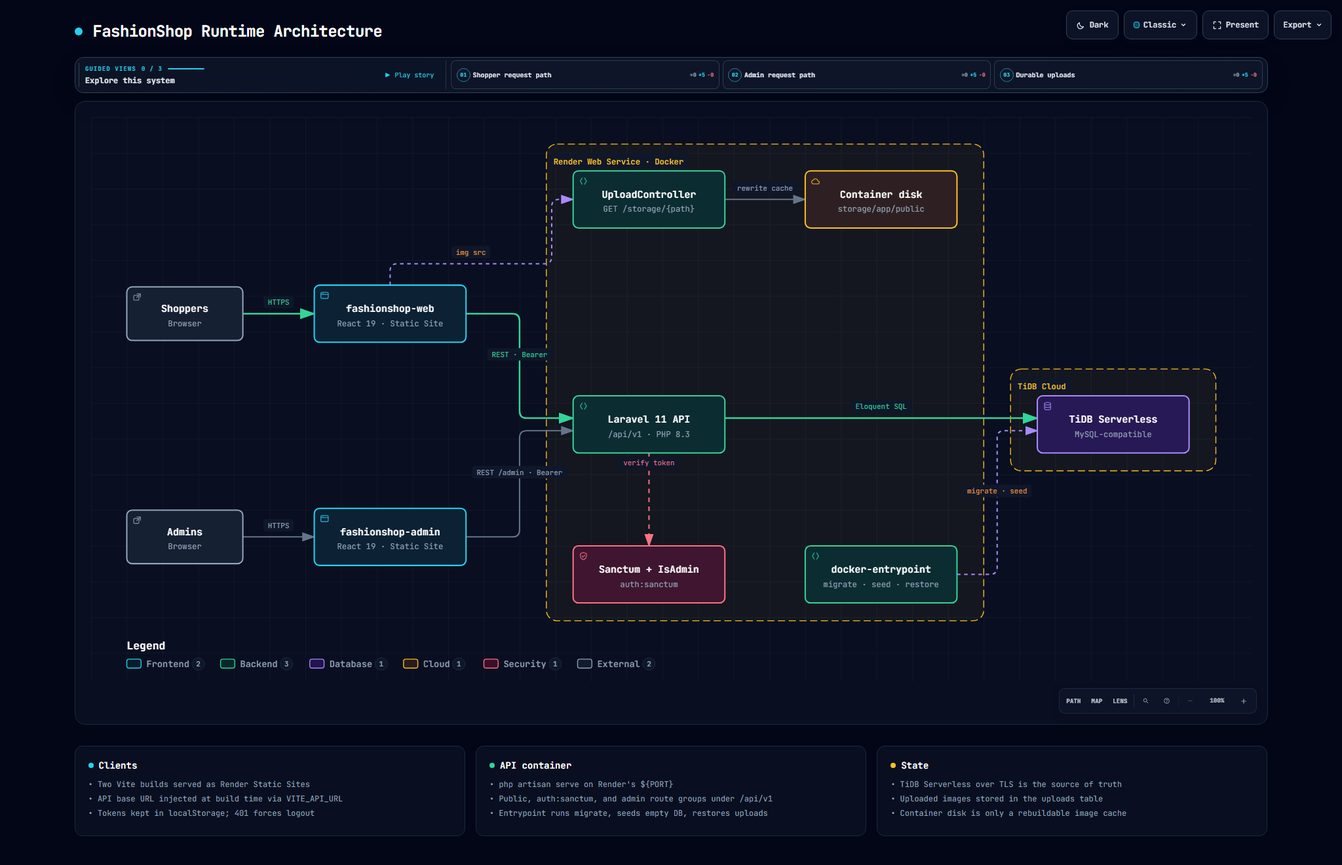
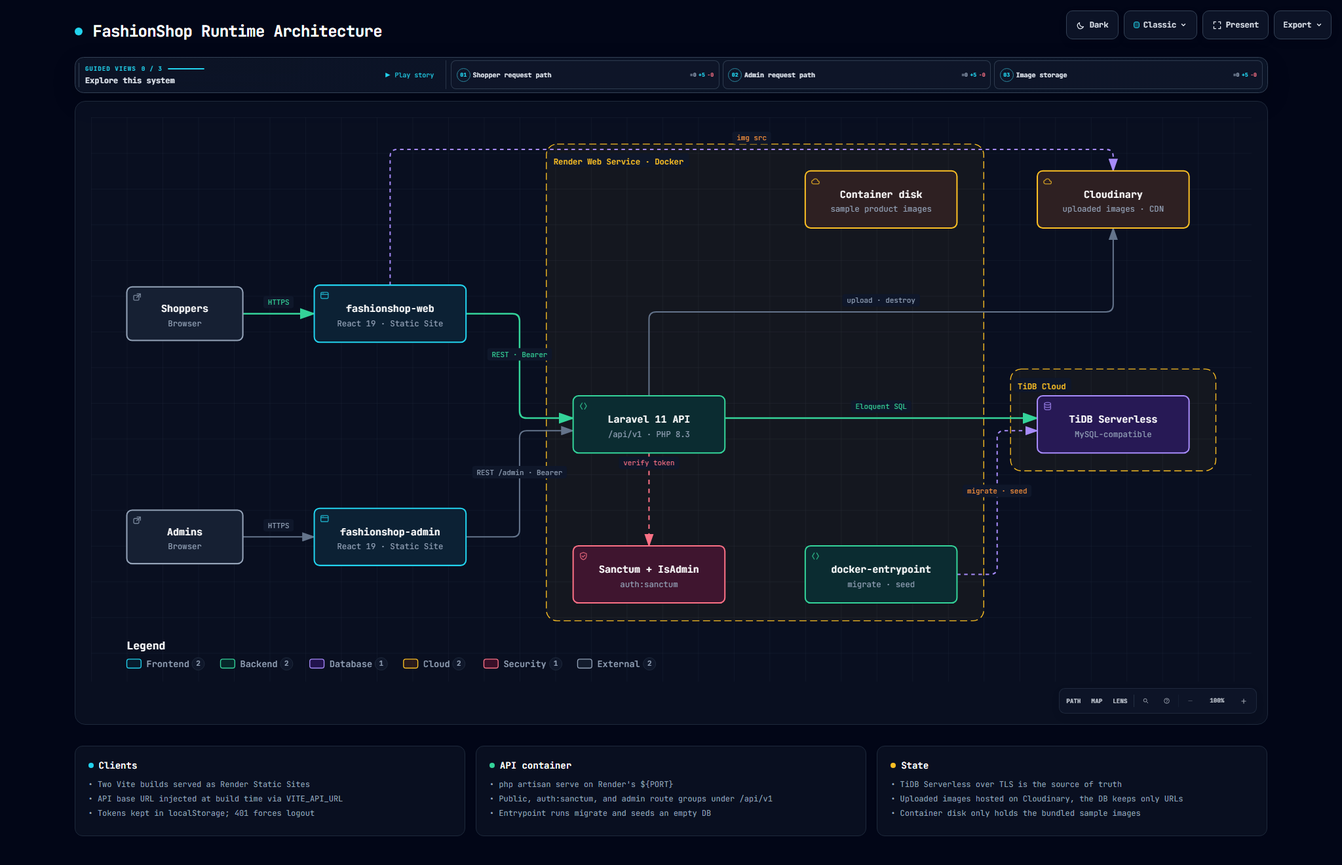
Redraw the architecture diagram with Cloudinary holding the images

diff --git a/docs/architecture/runtime-architecture.html b/docs/architecture/runtime-architecture.html
@@ -5085,7 +5085,7 @@ OTHER DEALINGS IN THE FONT SOFTWARE.
       </div>
     </div>
 
-    <script id="archify-guided-views-data" type="application/json">[{"id":"shopping-path","label":"Shopper request path","focus":["shopper","web","api","auth","db"],"note":"A storefront call carries the user Bearer token to /api/v1 and lands in TiDB."},{"id":"admin-path","label":"Admin request path","focus":["operator","admin","api","auth","db"],"note":"Admin calls hit /api/v1/admin, guarded by auth:sanctum plus the IsAdmin middleware."},{"id":"uploads","label":"Durable uploads","focus":["web","uploads","disk","db","boot"],"note":"Images live in the uploads table; disk is a cache rebuilt at boot or on first view."}]</script>
+    <script id="archify-guided-views-data" type="application/json">[{"id":"shopping-path","label":"Shopper request path","focus":["shopper","web","api","auth","db"],"note":"A storefront call carries the user Bearer token to /api/v1 and lands in TiDB."},{"id":"admin-path","label":"Admin request path","focus":["operator","admin","api","auth","db"],"note":"Admin calls hit /api/v1/admin, guarded by auth:sanctum plus the IsAdmin middleware."},{"id":"images","label":"Image storage","focus":["web","admin","api","cdn","disk"],"note":"Admin uploads go to Cloudinary and the database keeps only their URLs; sample images ship inside the container image."}]</script>
 
     <script id="archify-i18n-data" type="application/json">{"locale":"en","messages":{"viewer.kind.frontend":"Frontend","viewer.kind.backend":"Backend","viewer.kind.database":"Database","viewer.kind.cloud":"Cloud","viewer.kind.security":"Security","viewer.kind.messagebus":"Message bus","viewer.kind.external":"External","viewer.kind.neutral":"Neutral","viewer.kind.node":"Node","viewer.kind.start":"Start","viewer.kind.active":"Active","viewer.kind.waiting":"Waiting","viewer.kind.decision":"Decision","viewer.kind.success":"Success","viewer.kind.failure":"Failure","viewer.toolbar.actions":"Diagram actions","viewer.theme.toggle.title":"Toggle theme (T)","viewer.theme.toggle":"Toggle color theme","viewer.theme.dark":"Dark","viewer.theme.light":"Light","viewer.preset.choose.title":"Choose visual style (S cycles)","viewer.preset.choose":"Choose visual style","viewer.preset.style":"Style","viewer.preset.menu":"Visual style","viewer.preset.identity":"Visual identity","viewer.preset.cycles":"S cycles","viewer.preset.classic":"Classic","viewer.preset.classic.short":"Classic","viewer.preset.classic.hint":"Stable technical default","viewer.preset.flow":"Signal Flow","viewer.preset.flow.short":"Flow","viewer.preset.flow.hint":"Motion-forward presentation","viewer.preset.blueprint":"Blueprint","viewer.preset.blueprint.hint":"Engineering review","viewer.preset.editorial":"Editorial","viewer.preset.editorial.hint":"Publication and launch notes","viewer.preset.badge.signalFlow":"SIGNAL FLOW","viewer.preset.badge.blueprint":"BLUEPRINT / REV 01","viewer.preset.badge.editorial":"EDITORIAL / FIELD NOTE","viewer.preset.badge.editorialPlate":"ARCHIFY / PLATE 04","viewer.preset.current":"Visual style: {style}. Choose visual style","viewer.motion.live":"Live","viewer.motion.still":"Still","viewer.motion.pause":"Pause motion","viewer.motion.resume":"Resume motion","viewer.motion.reduced":"Motion paused by reduced-motion preference","viewer.motion.hidden":"Motion paused while this page is hidden","viewer.motion.yielding":"Pause motion; currently yielding to {owner}","viewer.motion.yielding.title":"Live preview enabled · yielding to {owner}","viewer.owner.story":"the guided story","viewer.owner.chapter":"the active chapter","viewer.owner.chapterPreview":"the chapter delta preview","viewer.owner.handoff":"the chapter handoff","viewer.owner.route":"Route Probe","viewer.owner.lens":"Semantic Lens","viewer.owner.relationship":"Relationship Preview","viewer.owner.intent":"Intent Trace","viewer.owner.focus":"semantic focus","viewer.owner.legend":"legend preview","viewer.owner.reader":"reader interaction","viewer.present.enter":"Enter presentation stage","viewer.present.enter.title":"Presentation stage (F)","viewer.present.exit":"Exit presentation stage","viewer.present.exit.title":"Exit presentation stage (F or Escape)","viewer.present.present":"Present","viewer.present.exit.label":"Exit","viewer.export.button":"Export","viewer.export.button.title":"Export diagram (E)","viewer.export.diagram":"Export diagram","viewer.export.menu":"Export","viewer.export.subtitle":"Portable, clean outputs","viewer.export.share":"Share","viewer.export.shareCard":"Share Card","viewer.export.routeShareCard":"Route Share Card","viewer.export.reachShareCard":"Reach Share Card","viewer.export.copyShareCard":"Copy Share Card","viewer.export.copyDiagram":"Copy diagram","viewer.export.clipboardPng":"PNG to clipboard","viewer.export.raster":"Raster images","viewer.export.image":"Image","viewer.export.lossless":"Lossless image","viewer.export.compact":"Compact image","viewer.export.modern":"Modern image","viewer.export.vectorMotion":"Vector and motion","viewer.export.vectorMotion.heading":"Vector \u0026 motion","viewer.export.editable":"Editable vector","viewer.export.motion6s":"6s motion","viewer.export.unsupported":"Not supported by this browser","viewer.export.clipboardUnsupported":"Clipboard image write not supported by this browser","viewer.export.clipboardUnsupported.period":"Clipboard image write not supported by this browser.","viewer.export.clipboardUnsupported.short":"Clipboard image write not supported in this browser.","viewer.export.motionUnavailable":"Motion capture unavailable in this browser","viewer.export.webmUnavailable":"WebM unavailable in this browser","viewer.export.failed":"Export failed: {message}","viewer.export.unknownVariant":"Unknown Share Card variant: {variant}","viewer.export.routeRequired":"Trace a route before exporting a Route Share Card","viewer.export.reachRequired":"Trace authored reach before exporting a Reach Share Card","viewer.export.unknown":"unknown","viewer.export.routeFailed":"Route Share Card export failed: {message}","viewer.export.reachFailed":"Reach Share Card export failed: {message}","viewer.export.copyFailed":"Copy failed: {message}","viewer.export.copiedPng":"Copied PNG to clipboard","viewer.export.copiedShare":"Copied Share Card","viewer.export.downloadedShare":"Downloaded Share Card","viewer.export.downloadedRoute":"Downloaded Route Share Card","viewer.export.downloadedReach":"Downloaded Reach Share Card","viewer.export.downloadedWebm":"Downloaded WebM","viewer.export.recording":"Recording 6 seconds of motion…","viewer.export.card.routeSummary.one":"Route: {source} → {target} · {count} directed hop","viewer.export.card.routeSummary.other":"Route: {source} → {target} · {count} directed hops","viewer.export.card.reachSummary":"Authored {direction} from {origin} · {nodes} · {links} · max {hops}","viewer.export.card.node.one":"{count} node","viewer.export.card.node.other":"{count} nodes","viewer.export.card.link.one":"{count} link","viewer.export.card.link.other":"{count} links","viewer.export.card.hop.one":"{count} hop","viewer.export.card.hop.other":"{count} hops","viewer.export.card.routeBadge":"ARCHIFY · ROUTE · {hops}","viewer.export.card.reachBadge":"ARCHIFY · {direction} REACH","viewer.export.card.defaultBadge":"ARCHIFY · {preset} · {theme}","viewer.export.direction.upstream":"Upstream","viewer.export.direction.downstream":"Downstream","viewer.export.error.canvasUnavailable":"Canvas unavailable for {label}","viewer.export.error.contextUnavailable":"2D canvas context unavailable for {label}","viewer.export.error.toBlobUnavailable":"canvas.toBlob unavailable for {label}","viewer.export.error.toBlobNull":"canvas.toBlob returned no data for {label}","viewer.export.error.variantsCombined":"Share Card variants cannot be combined","viewer.export.error.viewerState":"Share Card export could not remove temporary viewer state","viewer.export.error.routeState":"Route Card export could not preserve the resolved route safely","viewer.export.error.reachState":"Reach Card export could not preserve authored reach safely","viewer.export.error.webmRequirements":"WebM motion export requires a trace animation and browser MediaRecorder support","viewer.export.error.mediaRecorder":"MediaRecorder failed","viewer.export.error.emptyWebm":"MediaRecorder produced an empty WebM","viewer.export.error.webmBackground":"SVG background could not be loaded for WebM export","viewer.guided.region":"Guided diagram views","viewer.guided.previous":"Previous guided view","viewer.guided.previous.title":"Previous guided view ([)","viewer.guided.next":"Next guided view","viewer.guided.next.title":"Next guided view (])","viewer.guided.views":"Guided views","viewer.guided.explore":"Explore this system","viewer.guided.intro":"Step through curated paths without changing the source diagram.","viewer.guided.trail":"Story trail","viewer.guided.beat":"Beat","viewer.guided.nextBeat":"Next","viewer.guided.play":"Play guided story","viewer.guided.play.title":"Play guided story (P)","viewer.guided.pause":"Pause guided story","viewer.guided.pause.title":"Pause guided story (P)","viewer.guided.replay":"Replay guided story","viewer.guided.replay.title":"Replay guided story (P)","viewer.guided.playStory":"Play story","viewer.guided.pauseStory":"Pause","viewer.guided.replayStory":"Replay story","viewer.guided.motionUnavailable":"Story playback unavailable while motion is Still","viewer.guided.enableMotion":"Switch motion to Live to play the guided story","viewer.guided.selectBeatLink":"Select a Story Beat to copy its exact link","viewer.guided.copyMoment":"Copy moment","viewer.guided.momentCopied":"Moment link copied","viewer.guided.momentCopyFailed":"Could not copy story moment link","viewer.guided.copied":"Copied","viewer.guided.copyFailed":"Copy failed","viewer.guided.showAll":"Show all","viewer.guided.showAll.aria":"Show entire diagram","viewer.guided.chapters":"Story chapters","viewer.guided.storyTrail":"Story trail for {label}: {count} beats","viewer.guided.chapter.open":"Open chapter {index} of {total}: {label}, {count} stops","viewer.guided.chapter.current":"Current chapter {index} of {total}: {label}, {count} stops","viewer.guided.chapter.selectedNodes":"{count} selected nodes","viewer.guided.chapter.stops":"{count} stops","viewer.guided.chapter.stop.one":"{count} stop","viewer.guided.chapter.stop.other":"{count} stops","viewer.guided.chapter.current.title":"{label} — current chapter, {count} stops","viewer.guided.chapter.delta.expanded":"{stay} stay, {enter} enter, {leave} leave","viewer.guided.chapter.delta.aria":"Open chapter {index} of {total}: {label}. Chapter focus delta: {delta}","viewer.guided.chapter.delta.title":"{label} — {delta} chapter focus","viewer.guided.handoff":"{from} → {to} · via {label}","viewer.guided.share.chapter":"Chapter {index} / {total}","viewer.guided.share.initial":"Chapter 01 / 01","viewer.guided.share.default":"Guided chapter","viewer.guided.state.ready":"Ready","viewer.guided.state.playing":"Playing","viewer.guided.state.settled":"Settled","viewer.guided.state.paused":"Paused","viewer.guided.state.pinned":"Pinned","viewer.guided.state.still":"Still","viewer.guided.share.step":"Step {index} / {total} · {label}","viewer.guided.share.staticMoment":"{step} · Static moment","viewer.guided.share.complete":"{count} steps complete · {note}","viewer.guided.share.settled":"Path settled for reading.","viewer.guided.share.staticPath":"{count} steps · Static path","viewer.guided.share.ready":"{count} steps · Ready","viewer.guided.share.aria":"{state} chapter {index} of {total}: {label}. {beat}. {route}","viewer.guided.beat.start":"Beat {index} / {total} · {label} · starting point","viewer.guided.beat.forward":"Beat {index} / {total} · {from} → {to}","viewer.guided.beat.reverse":"Beat {index} / {total} · {from} → {to} · reverse authored link","viewer.guided.beat.multiple":"Beat {index} / {total} · {from} ⇄ {to} · {count} authored links","viewer.guided.beat.group":"Beat {index} / {total} · {from} · {to} · grouped · no direct link","viewer.guided.beat.aria.prefix":"Story beat {index} of {total}: {label}. ","viewer.guided.beat.aria.start":"Starting point.","viewer.guided.beat.aria.forward":"From {from} through one authored forward relationship.","viewer.guided.beat.aria.reverse":"From {from}; the authored relationship points from {to} to {from}.","viewer.guided.beat.aria.multiple":"From {from} through {count} authored relationships; shown without arbitrary motion.","viewer.guided.beat.aria.group":"Grouped from {from} with no direct authored relationship.","viewer.guided.caption.start":"Starting point","viewer.guided.caption.grouped":"Grouped transition · no direct authored link","viewer.guided.caption.more":" +{count} more","viewer.guided.caption.reverse":"Reverse authored relationship","viewer.guided.caption.relationships":"{count} authored relationships","viewer.guided.caption.relationship":"Authored relationship","viewer.guided.caption.direction":"authored direction: {from} → {to}","viewer.guided.caption.starting":"Authored starting point","viewer.guided.beatLink":"Copy link to current story moment: Beat {index} of {total}: {label}","viewer.guided.noStory":"This diagram has no authored guided story.","viewer.guide.eyebrow":"Diagram guide","viewer.guide.close":"Close diagram guide","viewer.guide.inspecting":"Inspecting compiled semantics","viewer.guide.actions":"Diagram exploration actions","viewer.guide.find":"Find any node","viewer.guide.find.hint":"Search labels, responsibilities, kinds, and stable IDs.","viewer.guide.route":"Trace a route","viewer.guide.route.aria":"Trace a directed route","viewer.guide.route.hint":"Ask how two semantic nodes connect in authored direction.","viewer.guide.map":"See the whole system","viewer.guide.map.hint":"Open Semantic Radar with a live viewport and stable nodes.","viewer.guide.lens":"Compare semantic kinds","viewer.guide.lens.hint":"Count roles, reveal their traffic, and compare direct authored links.","viewer.guide.story":"Play the guided story","viewer.guide.story.hint":"Walk the authored chapters and real relationships.","viewer.guide.present":"Enter Presentation Stage","viewer.guide.present.hint":"Give the live diagram the viewport without changing export.","viewer.guide.shortcuts":"Additional keyboard shortcuts","viewer.guide.shortcut.export":"Export","viewer.guide.shortcut.theme":"Theme","viewer.guide.shortcut.style":"Style","viewer.guide.shortcut.reset":"Reset","viewer.guide.shortcut.zoomIn":"Zoom in","viewer.guide.shortcut.zoomOut":"Zoom out","viewer.guide.shortcut.close":"Close","viewer.guide.facts":"{nodes} · {relationships} · {views}","viewer.guide.fact.node.one":"{count} semantic node","viewer.guide.fact.node.other":"{count} semantic nodes","viewer.guide.fact.relationship.one":"{count} relationship","viewer.guide.fact.relationship.other":"{count} relationships","viewer.guide.fact.view.one":"{count} guided view","viewer.guide.fact.view.other":"{count} guided views","viewer.guide.story.available.one":"Walk {count} authored chapter and its real relationships.","viewer.guide.story.available.other":"Walk {count} authored chapters and their real relationships.","viewer.guide.story.unavailable":"No authored guided story in this diagram.","viewer.guide.open":"Open diagram guide","viewer.guide.noStory":"This diagram has no authored guided story.","viewer.finder.title":"Find a node","viewer.finder.close":"Close node finder","viewer.finder.placeholder":"Search labels or IDs","viewer.finder.search":"Search diagram nodes","viewer.finder.results":"Diagram nodes","viewer.finder.empty":"No matching nodes","viewer.finder.result.focus":"Focus {label}","viewer.finder.result.routeStart":"Choose {label} as route start","viewer.finder.result.routeTarget":"Choose {label} as route destination, {links}","viewer.finder.status.empty":"No matching nodes","viewer.finder.status.count.one":"{count} matching node","viewer.finder.status.count.other":"{count} matching nodes","viewer.finder.noun.nodes":"nodes","viewer.finder.link.one":"{count} link","viewer.finder.link.other":"{count} links","viewer.finder.result.focus.one":"Focus {label}, {count} related connection","viewer.finder.result.focus.other":"Focus {label}, {count} related connections","viewer.finder.status.filtered":"{visible} of {available} {noun}","viewer.finder.status.all":"{available} {noun}","viewer.passport.eyebrow":"Semantic passport","viewer.passport.metadata":"Node metadata","viewer.passport.evidence":"Verified source evidence","viewer.passport.verified":"Verified source","viewer.passport.verificationScope":"Verified against local Git at the pinned revision. Remote access has not been checked.","viewer.passport.reach":"Authored reach","viewer.passport.reach.trace":"Trace authored reachability","viewer.passport.upstream":"Upstream","viewer.passport.downstream":"Downstream","viewer.passport.upstream.trace":"Trace upstream authored reachability","viewer.passport.downstream.trace":"Trace downstream authored reachability","viewer.passport.close":"Close semantic passport","viewer.passport.copy":"Copy link","viewer.passport.copy.focus":"Copy link to focused node","viewer.passport.relations":"Relations","viewer.passport.relations.show":"Show connected relationships","viewer.passport.relations.hide":"Hide connected relationships","viewer.passport.relations.list":"Connected relationships","viewer.passport.copyRelation":"Copy relation","viewer.passport.copyNode":"Copy node","viewer.passport.copyPinned":"Copy link to pinned relationship","viewer.passport.copySource":"Copy link to source node","viewer.passport.copy.focused.success":"Focused node link copied","viewer.passport.copy.pinned.success":"Pinned relationship link copied","viewer.passport.copy.focused.failed":"Could not copy focused node link","viewer.passport.copy.pinned.failed":"Could not copy pinned relationship link","viewer.passport.relationship.none":"No connected relationships","viewer.passport.relationship.count.one":"{count} relation","viewer.passport.relationship.count.other":"{count} relations","viewer.passport.relationship.show.one":"Show {count} connected relationship","viewer.passport.relationship.show.other":"Show {count} connected relationships","viewer.passport.relationship.summary":"{out} outgoing · {in} incoming{loops}","viewer.passport.relationship.loops":" · {count} loop","viewer.passport.relationship.explorer":"Direct relationship explorer","viewer.passport.relationship.help":"Use arrow keys to explore relationships. Press Enter or Space to pin details; Escape clears.","viewer.passport.relationship.loopsBack":"loops back","viewer.passport.relationship.connectsTo":"connects to","viewer.passport.relationship.connectsFrom":"connects from","viewer.passport.relationship.pinned":"Pinned relationship · {from} → {to} · {label}","viewer.passport.relationship.inspect":"Inspect relationship {index} of {total}: {from} to {to}, {label}. Press Enter for details.","viewer.passport.relationship.group.out":"Outgoing","viewer.passport.relationship.group.in":"Incoming","viewer.passport.relationship.group.loop":"Self loops","viewer.passport.relationship.row":"{group}: {relationship}, {neighbor}","viewer.passport.relationship.direction.out":"OUT →","viewer.passport.relationship.direction.in":"← IN","viewer.passport.relationship.direction.loop":"LOOP","viewer.passport.sourceCount.one":"{count} verified source reference","viewer.passport.sourceCount.other":"{count} verified source references","viewer.passport.sourceMarker":"SRC","viewer.passport.beacon.one":"{count} verified source; focus this node to inspect","viewer.passport.beacon.other":"{count} verified sources; focus this node to inspect","viewer.passport.repository.open":"Open verified repository revision {revision}","viewer.passport.source.open":"Open verified source {path} at revision {revision}","viewer.passport.source.openLink":"Open ↗","viewer.passport.reach.upstream.one":"Trace {count} upstream authored node","viewer.passport.reach.upstream.other":"Trace {count} upstream authored nodes","viewer.passport.reach.downstream.one":"Trace {count} downstream authored node","viewer.passport.reach.downstream.other":"Trace {count} downstream authored nodes","viewer.passport.reach.noUpstream":"No upstream authored nodes","viewer.passport.reach.noDownstream":"No downstream authored nodes","viewer.passport.reach.status":"{direction} · {nodes} nodes · {links} links · max {hops} hops","viewer.route.eyebrow":"Route probe","viewer.route.start":"Choose a start node","viewer.route.start.find":"Find start","viewer.route.start.find.aria":"Find a route start","viewer.route.copy":"Copy link","viewer.route.copy.aria":"Copy link to traced route","viewer.route.clear":"Clear","viewer.route.clear.aria":"Clear route probe","viewer.route.traced":"Traced route","viewer.route.pickTwo":"Pick two semantic nodes on the diagram","viewer.route.pickOne":"Pick a semantic node on the diagram","viewer.route.controls":"Route journey controls","viewer.route.previous":"Previous route position","viewer.route.play":"Play route journey","viewer.route.pause":"Pause route journey","viewer.route.replay":"Replay route journey","viewer.route.next":"Next route position","viewer.route.journey":"Journey","viewer.route.pause.label":"Pause","viewer.route.replay.label":"Replay","viewer.route.overview":"Overview","viewer.route.overview.aria":"Show complete route overview","viewer.route.instructions":"Choose the source, then the destination. Direction matters.","viewer.route.destination":"Choose a destination from {label}","viewer.route.destination.find":"Find target","viewer.route.destination.find.aria":"Find a reachable route destination","viewer.route.differentDestination":"Choose a different destination","viewer.route.distinct":"A route needs two distinct semantic nodes.","viewer.route.unreachable":"No directed route to {label}","viewer.route.unreachable.detail":"{target} is not reachable from {source}. Pick a highlighted destination.","viewer.route.start.instructions":"Select the source. The next step will reveal only directed destinations.","viewer.route.copy.success":"Traced route link copied","viewer.route.copy.failed":"Could not copy traced route link","viewer.route.position":"Route position {index} of {total}: {label}","viewer.route.step":"Step {index} of {total} · {phase} · {label}","viewer.route.motionRequired":"Automatic journey requires Live motion","viewer.route.trigger.clear":"Clear traced route","viewer.route.overview.status":"{nodes} · {hops} · shortest authored route","viewer.route.overview.node.one":"{count} node","viewer.route.overview.node.other":"{count} nodes","viewer.route.overview.hop.one":"{count} directed hop","viewer.route.overview.hop.other":"{count} directed hops","viewer.route.phase.playing":"Playing","viewer.route.phase.complete":"Complete","viewer.route.phase.inspecting":"Inspecting","viewer.route.destination.count.one":"{count} directed destination available. Pick a highlighted node.","viewer.route.destination.count.other":"{count} directed destinations available. Pick a highlighted node.","viewer.route.noOutgoing":"No outgoing route starts here. Clear and choose another source.","viewer.route.result.title":"{source} to {target}","viewer.route.finder.source.title":"Choose route start","viewer.route.finder.source.placeholder":"Search route sources","viewer.route.finder.source.empty":"No matching route sources","viewer.route.finder.source.results":"Nodes that can start a route","viewer.route.finder.source.noun":"route sources","viewer.route.finder.source.badge":"start","viewer.route.finder.target.title":"Destination from {label}","viewer.route.finder.target.placeholder":"Search reachable destinations","viewer.route.finder.target.empty":"No matching reachable destinations","viewer.route.finder.target.results":"Reachable route destinations","viewer.route.finder.target.noun":"reachable destinations","viewer.route.hop.one":"{count} hop","viewer.route.hop.other":"{count} hops","viewer.lens.eyebrow":"Semantic lens","viewer.lens.title":"Compare system roles","viewer.lens.close":"Close semantic lens","viewer.lens.instruction":"Choose up to two semantic kinds. One reveals its real traffic; two compare only direct authored relationships.","viewer.lens.kinds":"Semantic kinds","viewer.lens.choose":"Choose a kind to inspect its nodes and touching relationships.","viewer.lens.copy":"Copy link to semantic lens","viewer.lens.clear":"Clear semantic lens","viewer.lens.open":"Open semantic lens","viewer.lens.openActive":"Open active semantic lens","viewer.lens.legend":"Semantic legend","viewer.lens.legend.inspect.one":"Inspect {label}, {count} node","viewer.lens.legend.inspect.other":"Inspect {label}, {count} nodes","viewer.lens.kind.count.one":"{label}, {count} node","viewer.lens.kind.count.other":"{label}, {count} nodes","viewer.lens.compare.one":"{first} → {second}: {forward} · {second} → {first}: {reverse} · {count} direct relationship","viewer.lens.compare.other":"{first} → {second}: {forward} · {second} → {first}: {reverse} · {count} direct relationships","viewer.lens.single":"{nodes} · {relationships} · connected peers remain visible","viewer.lens.node.one":"{count} {label} node","viewer.lens.node.other":"{count} {label} nodes","viewer.lens.relationship.one":"{count} touching relationship","viewer.lens.relationship.other":"{count} touching relationships","viewer.radar.title":"Semantic radar","viewer.radar.building":"Building overview","viewer.radar.openFull":"Open full semantic radar","viewer.radar.open":"Open radar","viewer.radar.close":"Close semantic radar","viewer.radar.surface":"Diagram overview. Click a node to focus it, or use arrow keys to pan.","viewer.radar.click":"Click node","viewer.radar.drag":"Drag to pan","viewer.radar.space":"Semantic radar needs more MAP space.","viewer.radar.nodes":"Semantic diagram radar nodes","viewer.radar.focus":"Focus {label} from Semantic Radar","viewer.radar.status":"{count} nodes · {viewport}","viewer.radar.fullMap":"{count} nodes · full map","viewer.radar.compacted":"Radar compacted to avoid covering the Semantic Passport or MAP controls.","viewer.radar.cancelWaiting":"Cancel semantic radar waiting for more MAP space","viewer.radar.needsSpace":"Semantic radar needs more visible MAP space","viewer.radar.viewport.full":"full map","viewer.radar.viewport.width":"{percent}% width","viewer.radar.viewport.scale":"{percent}% viewport","viewer.nav.controls":"Diagram view controls","viewer.nav.route":"Trace a directed route","viewer.nav.route.title":"Trace route (R)","viewer.nav.route.short":"PATH","viewer.nav.radar":"Open semantic radar","viewer.nav.radar.title":"Semantic radar (M)","viewer.nav.radar.short":"MAP","viewer.nav.lens":"Open semantic lens","viewer.nav.lens.title":"Semantic lens (L)","viewer.nav.lens.short":"LENS","viewer.nav.find":"Find a node","viewer.nav.find.title":"Find a node (/)","viewer.nav.guide":"Open diagram guide","viewer.nav.guide.title":"Diagram guide (?)","viewer.nav.zoomOut":"Zoom out","viewer.nav.zoomOut.title":"Zoom out (-)","viewer.nav.reset":"Reset diagram view","viewer.nav.reset.title":"Reset view (0)","viewer.nav.read":"READ","viewer.nav.zoomIn":"Zoom in","viewer.nav.zoomIn.title":"Zoom in (+)","viewer.nav.camera":"{hint}. Reset diagram view","viewer.nav.camera.title":"{semantic}{hint} · reset view (0)","viewer.nav.camera.semantic":"Semantic camera active · ","viewer.nav.level.map":"MAP","viewer.nav.level.read":"READ","viewer.nav.level.full":"FULL","viewer.nav.level.auto":"AUTO","viewer.nav.detail.map":"Zoom in to reveal relationship labels and node context","viewer.nav.detail.read":"Zoom in again to reveal tags and annotations","viewer.nav.detail.full":"Full diagram detail","viewer.intent.summary":"{label}. {out} outgoing, {in} incoming{loops}. {total} connections. Press Enter for details.","viewer.intent.loops":", {count} self loop","viewer.common.copied":"Copied","viewer.common.copyFailed":"Copy failed","viewer.common.copyLink":"Copy link","viewer.common.clear":"Clear","viewer.common.close":"Close"}}</script>
     <div class="guided-views no-print" id="guided-views" hidden aria-label="Guided diagram views">
@@ -5167,8 +5167,8 @@ OTHER DEALINGS IN THE FONT SOFTWARE.
         <path data-edge-from="admin" data-edge-to="api" data-edge-label="REST /admin · Bearer" data-edge-key="3" data-edge-id="admin-api" data-composition-points="420,470;480,470;480,351;540,351" d="M 420 470 L 472 470 Q 480 470 480 462 L 480 359 Q 480 351 488 351 L 540 351" class="a-default" stroke-width="1.5" marker-end="url(#arrowhead)"/>
         <path data-edge-from="api" data-edge-to="auth" data-edge-label="verify token" data-edge-key="4" data-edge-id="api-auth" data-composition-points="625,376;625,480" d="M 625 376 L 625 480" class="a-security" stroke-width="1.5" marker-end="url(#arrowhead-security)"/>
         <path data-edge-from="api" data-edge-to="db" data-edge-label="Eloquent SQL" data-edge-key="5" data-edge-id="api-db" data-composition-points="710,337;1060,337" d="M 710 337 L 1060 337" class="a-emphasis" stroke-width="1.8" marker-end="url(#arrowhead-emphasis)"/>
-        <path data-edge-from="web" data-edge-to="uploads" data-edge-label="img src" data-edge-key="6" data-edge-id="web-uploads" data-composition-points="335,188;335,164;516,164;516,92;540,92" d="M 335 188 L 335 172 Q 335 164 343 164 L 508 164 Q 516 164 516 156 L 516 100 Q 516 92 524 92 L 540 92" class="a-dashed" stroke-width="1.5" marker-end="url(#arrowhead-dashed)"/>
-        <path data-edge-from="uploads" data-edge-to="disk" data-edge-label="rewrite cache" data-edge-key="7" data-edge-id="uploads-disk" data-composition-points="710,92;800,92" d="M 710 92 L 800 92" class="a-default" stroke-width="1.5" marker-end="url(#arrowhead)"/>
+        <path data-edge-from="api" data-edge-to="cdn" data-edge-label="upload · destroy" data-edge-key="6" data-edge-id="api-cdn" data-composition-points="625,312;625,218;1145,218;1145,124" d="M 625 312 L 625 226 Q 625 218 633 218 L 1137 218 Q 1145 218 1145 210 L 1145 124" class="a-default" stroke-width="1.5" marker-end="url(#arrowhead)"/>
+        <path data-edge-from="web" data-edge-to="cdn" data-edge-label="img src" data-edge-key="7" data-edge-id="web-cdn" data-composition-points="335,188;335,36;1145,36;1145,60" d="M 335 188 L 335 44 Q 335 36 343 36 L 1137 36 Q 1145 36 1145 44 L 1145 60" class="a-dashed" stroke-width="1.5" marker-end="url(#arrowhead-dashed)"/>
         <path data-edge-from="boot" data-edge-to="db" data-edge-label="migrate · seed" data-edge-key="8" data-edge-id="boot-db" data-composition-points="970,512;1015,512;1015,351;1060,351" d="M 970 512 L 1007 512 Q 1015 512 1015 504 L 1015 359 Q 1015 351 1023 351 L 1060 351" class="a-dashed" stroke-width="1.5" marker-end="url(#arrowhead-dashed)"/>
 
         <!-- Components -->
@@ -5248,26 +5248,15 @@ OTHER DEALINGS IN THE FONT SOFTWARE.
         <text data-detail="context" x="625" y="358" class="t-muted" font-size="9" text-anchor="middle">/api/v1 · PHP 8.3</text>
         </g>
 
-        <g id="node-uploads" data-node-id="uploads" data-node-label="UploadController" tabindex="0" role="button" aria-label="Focus UploadController, GET /storage/{path}, Render Web Service · Docker" aria-pressed="false" data-node-kind="backend" data-node-sublabel="GET /storage/{path}" data-node-context="Render Web Service · Docker">
-          <title>UploadController · GET /storage/{path} · Render Web Service · Docker</title>
-          <rect x="540" y="60" width="170" height="64" rx="6" class="c-mask"/>
-          <rect x="540" y="60" width="170" height="64" rx="6" class="c-backend" stroke-width="1.5"/>
-          <g aria-hidden="true" data-semantic-sigil="backend" class="semantic-sigil s-backend" transform="translate(546 66) scale(0.6875)">
-            <path d="M6 3 3 8l3 5M10 3l3 5-3 5"/>
-          </g>
-          <text data-node-label="" data-detail-anchor="" x="625" y="90" class="t-primary" font-size="11" font-weight="600" text-anchor="middle">UploadController</text>
-        <text data-detail="context" x="625" y="106" class="t-muted" font-size="9" text-anchor="middle">GET /storage/{path}</text>
-        </g>
-
-        <g id="node-boot" data-node-id="boot" data-node-label="docker-entrypoint" tabindex="0" role="button" aria-label="Focus docker-entrypoint, migrate · seed · restore, Render Web Service · Docker" aria-pressed="false" data-node-kind="backend" data-node-sublabel="migrate · seed · restore" data-node-context="Render Web Service · Docker">
-          <title>docker-entrypoint · migrate · seed · restore · Render Web Service · Docker</title>
+        <g id="node-boot" data-node-id="boot" data-node-label="docker-entrypoint" tabindex="0" role="button" aria-label="Focus docker-entrypoint, migrate · seed, Render Web Service · Docker" aria-pressed="false" data-node-kind="backend" data-node-sublabel="migrate · seed" data-node-context="Render Web Service · Docker">
+          <title>docker-entrypoint · migrate · seed · Render Web Service · Docker</title>
           <rect x="800" y="480" width="170" height="64" rx="6" class="c-mask"/>
           <rect x="800" y="480" width="170" height="64" rx="6" class="c-backend" stroke-width="1.5"/>
           <g aria-hidden="true" data-semantic-sigil="backend" class="semantic-sigil s-backend" transform="translate(806 486) scale(0.6875)">
             <path d="M6 3 3 8l3 5M10 3l3 5-3 5"/>
           </g>
           <text data-node-label="" data-detail-anchor="" x="885" y="510" class="t-primary" font-size="11" font-weight="600" text-anchor="middle">docker-entrypoint</text>
-        <text data-detail="context" x="885" y="526" class="t-muted" font-size="9" text-anchor="middle">migrate · seed · restore</text>
+        <text data-detail="context" x="885" y="526" class="t-muted" font-size="9" text-anchor="middle">migrate · seed</text>
         </g>
 
         <g id="node-db" data-node-id="db" data-node-label="TiDB Serverless" tabindex="0" role="button" aria-label="Focus TiDB Serverless, MySQL-compatible, TiDB Cloud" aria-pressed="false" data-node-kind="database" data-node-sublabel="MySQL-compatible" data-node-tag="TLS required" data-node-context="TiDB Cloud">
@@ -5283,16 +5272,27 @@ OTHER DEALINGS IN THE FONT SOFTWARE.
         <text data-detail="fine" x="1145" y="368" class="t-database" font-size="7" text-anchor="middle">TLS required</text>
         </g>
 
-        <g id="node-disk" data-node-id="disk" data-node-label="Container disk" tabindex="0" role="button" aria-label="Focus Container disk, storage/app/public, Render Web Service · Docker" aria-pressed="false" data-node-kind="cloud" data-node-sublabel="storage/app/public" data-node-tag="ephemeral" data-node-context="Render Web Service · Docker">
-          <title>Container disk · storage/app/public · Render Web Service · Docker · ephemeral</title>
+        <g id="node-disk" data-node-id="disk" data-node-label="Container disk" tabindex="0" role="button" aria-label="Focus Container disk, sample product images, Render Web Service · Docker" aria-pressed="false" data-node-kind="cloud" data-node-sublabel="sample product images" data-node-tag="bundled" data-node-context="Render Web Service · Docker">
+          <title>Container disk · sample product images · Render Web Service · Docker · bundled</title>
           <rect x="800" y="60" width="170" height="64" rx="6" class="c-mask"/>
           <rect x="800" y="60" width="170" height="64" rx="6" class="c-cloud" stroke-width="1.5"/>
           <g aria-hidden="true" data-semantic-sigil="cloud" class="semantic-sigil s-cloud" transform="translate(806 66) scale(0.6875)">
             <path d="M4.3 12.5h7.3a2.4 2.4 0 0 0 .2-4.8 4 4 0 0 0-7.5-1.3A3.1 3.1 0 0 0 4.3 12.5Z"/>
           </g>
           <text data-node-label="" data-detail-anchor="" x="885" y="90" class="t-primary" font-size="11" font-weight="600" text-anchor="middle">Container disk</text>
-        <text data-detail="context" x="885" y="106" class="t-muted" font-size="9" text-anchor="middle">storage/app/public</text>
-        <text data-detail="fine" x="885" y="116" class="t-cloud" font-size="7" text-anchor="middle">ephemeral</text>
+        <text data-detail="context" x="885" y="106" class="t-muted" font-size="9" text-anchor="middle">sample product images</text>
+        <text data-detail="fine" x="885" y="116" class="t-cloud" font-size="7" text-anchor="middle">bundled</text>
+        </g>
+
+        <g id="node-cdn" data-node-id="cdn" data-node-label="Cloudinary" tabindex="0" role="button" aria-label="Focus Cloudinary, uploaded images · CDN, Architecture component" aria-pressed="false" data-node-kind="cloud" data-node-sublabel="uploaded images · CDN" data-node-context="Architecture component">
+          <title>Cloudinary · uploaded images · CDN · Architecture component</title>
+          <rect x="1060" y="60" width="170" height="64" rx="6" class="c-mask"/>
+          <rect x="1060" y="60" width="170" height="64" rx="6" class="c-cloud" stroke-width="1.5"/>
+          <g aria-hidden="true" data-semantic-sigil="cloud" class="semantic-sigil s-cloud" transform="translate(1066 66) scale(0.6875)">
+            <path d="M4.3 12.5h7.3a2.4 2.4 0 0 0 .2-4.8 4 4 0 0 0-7.5-1.3A3.1 3.1 0 0 0 4.3 12.5Z"/>
+          </g>
+          <text data-node-label="" data-detail-anchor="" x="1145" y="90" class="t-primary" font-size="11" font-weight="600" text-anchor="middle">Cloudinary</text>
+        <text data-detail="context" x="1145" y="106" class="t-muted" font-size="9" text-anchor="middle">uploaded images · CDN</text>
         </g>
 
         <!-- Connection labels -->
@@ -5320,13 +5320,13 @@ OTHER DEALINGS IN THE FONT SOFTWARE.
           <rect x="851.2" y="317" width="67.6" height="14" rx="3" class="c-mask"/>
           <text x="885" y="327" class="t-backend" font-size="8" text-anchor="middle">Eloquent SQL</text>
         </g>
-        <g data-detail="context" data-edge-from="web" data-edge-to="uploads" data-edge-label="img src" data-edge-key="6" data-edge-id="web-uploads">
-          <rect x="403.7" y="144" width="43.6" height="14" rx="3" class="c-mask"/>
-          <text x="425.5" y="154" class="t-messagebus" font-size="8" text-anchor="middle">img src</text>
+        <g data-detail="context" data-edge-from="api" data-edge-to="cdn" data-edge-label="upload · destroy" data-edge-key="6" data-edge-id="api-cdn">
+          <rect x="841.6" y="198" width="86.8" height="14" rx="3" class="c-mask"/>
+          <text x="885" y="208" class="t-muted" font-size="8" text-anchor="middle">upload · destroy</text>
         </g>
-        <g data-detail="context" data-edge-from="uploads" data-edge-to="disk" data-edge-label="rewrite cache" data-edge-key="7" data-edge-id="uploads-disk">
-          <rect x="718.8" y="72" width="72.4" height="14" rx="3" class="c-mask"/>
-          <text x="755" y="82" class="t-muted" font-size="8" text-anchor="middle">rewrite cache</text>
+        <g data-detail="context" data-edge-from="web" data-edge-to="cdn" data-edge-label="img src" data-edge-key="7" data-edge-id="web-cdn">
+          <rect x="718.2" y="16" width="43.6" height="14" rx="3" class="c-mask"/>
+          <text x="740" y="26" class="t-messagebus" font-size="8" text-anchor="middle">img src</text>
         </g>
         <g data-detail="context" data-edge-from="boot" data-edge-to="db" data-edge-label="migrate · seed" data-edge-key="8" data-edge-id="boot-db">
           <rect x="976.4" y="411.5" width="77.2" height="14" rx="3" class="c-mask"/>
@@ -5578,7 +5578,7 @@ OTHER DEALINGS IN THE FONT SOFTWARE.
         <ul>
           <li>&bull; php artisan serve on Render&#39;s ${PORT}</li>
           <li>&bull; Public, auth:sanctum, and admin route groups under /api/v1</li>
-          <li>&bull; Entrypoint runs migrate, seeds empty DB, restores uploads</li>
+          <li>&bull; Entrypoint runs migrate and seeds an empty DB</li>
         </ul>
       </div>
 
@@ -5589,8 +5589,8 @@ OTHER DEALINGS IN THE FONT SOFTWARE.
         </div>
         <ul>
           <li>&bull; TiDB Serverless over TLS is the source of truth</li>
-          <li>&bull; Uploaded images stored in the uploads table</li>
-          <li>&bull; Container disk is only a rebuildable image cache</li>
+          <li>&bull; Uploaded images hosted on Cloudinary, the DB keeps only URLs</li>
+          <li>&bull; Container disk only holds the bundled sample images</li>
         </ul>
       </div>
     </div>
